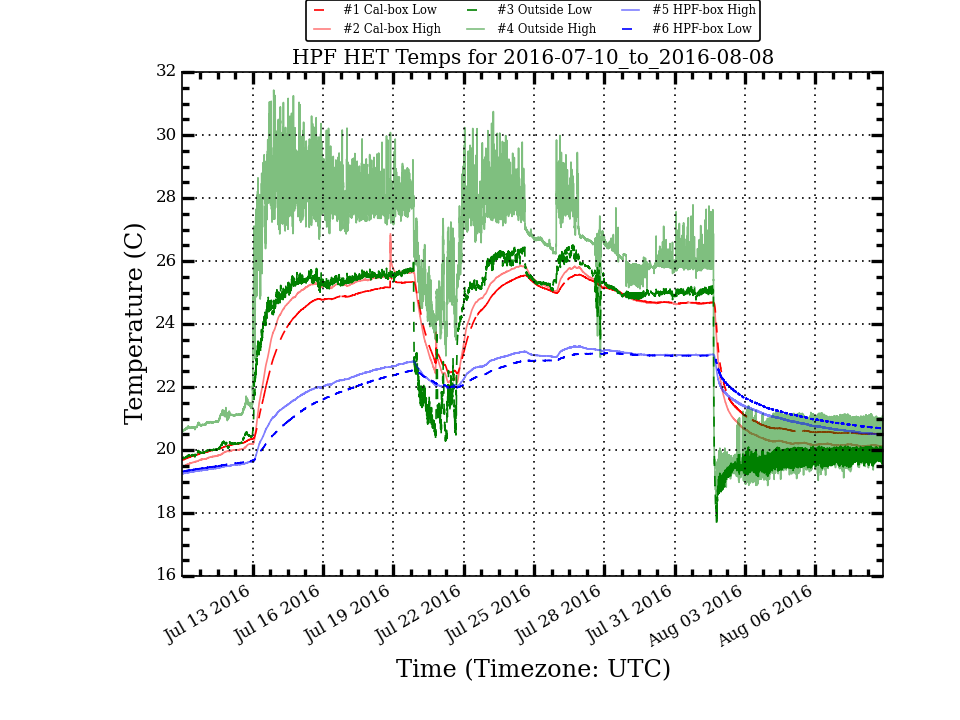
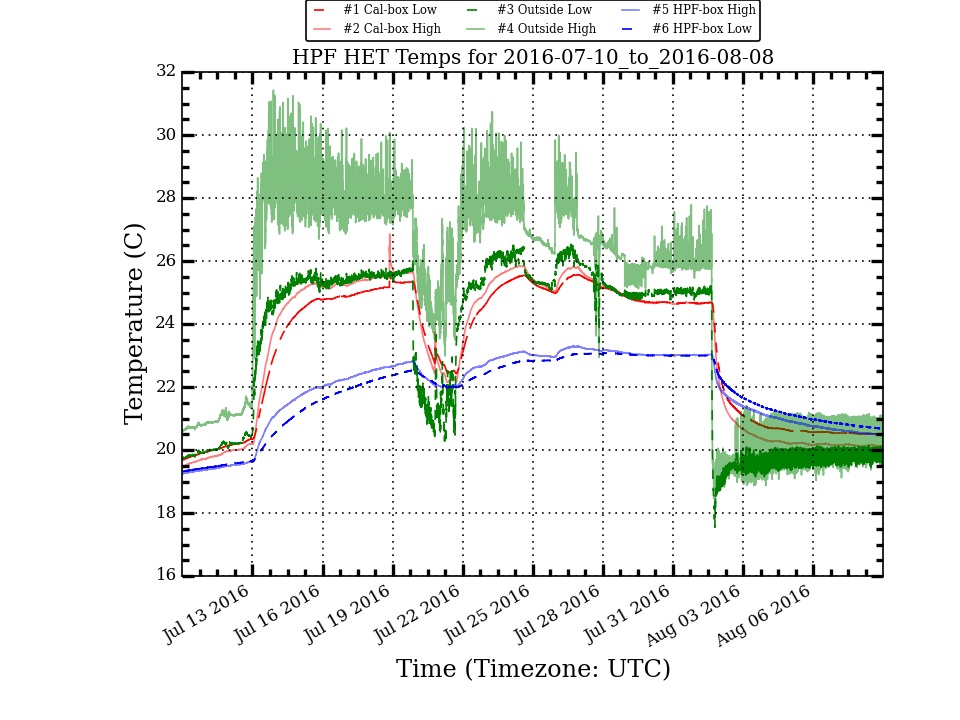
Update HPF Temp Plots

diff --git a/research/hpf_temps/plots/LakeShoreLogTotal_week_stats.html b/research/hpf_temps/plots/LakeShoreLogTotal_week_stats.html
@@ -10,56 +10,56 @@
  </TR>
  <TR>
   <TD>Cal_Low</TD>
-  <TD>20.763</TD>
-  <TD>0.372</TD>
-  <TD>20.608</TD>
+  <TD>20.759</TD>
+  <TD>0.370</TD>
+  <TD>20.607</TD>
   <TD>22.460</TD>
-  <TD>20.490</TD>
-  <TD>1.970</TD>
+  <TD>20.489</TD>
+  <TD>1.971</TD>
  </TR>
  <TR>
   <TD>Cal_High</TD>
-  <TD>20.360</TD>
-  <TD>0.356</TD>
-  <TD>20.209</TD>
+  <TD>20.357</TD>
+  <TD>0.355</TD>
+  <TD>20.207</TD>
   <TD>22.039</TD>
   <TD>20.103</TD>
   <TD>1.936</TD>
  </TR>
  <TR>
   <TD>Out_Low</TD>
-  <TD>19.706</TD>
+  <TD>19.709</TD>
   <TD>0.249</TD>
-  <TD>19.742</TD>
+  <TD>19.745</TD>
   <TD>20.138</TD>
   <TD>18.720</TD>
   <TD>1.418</TD>
  </TR>
  <TR>
   <TD>Out_High</TD>
-  <TD>20.226</TD>
-  <TD>0.589</TD>
-  <TD>20.311</TD>
+  <TD>20.229</TD>
+  <TD>0.587</TD>
+  <TD>20.315</TD>
   <TD>21.404</TD>
   <TD>18.822</TD>
   <TD>2.582</TD>
  </TR>
  <TR>
   <TD>HPF_High</TD>
-  <TD>20.936</TD>
-  <TD>0.371</TD>
-  <TD>20.841</TD>
+  <TD>20.929</TD>
+  <TD>0.372</TD>
+  <TD>20.837</TD>
   <TD>21.974</TD>
-  <TD>20.471</TD>
-  <TD>1.503</TD>
+  <TD>20.466</TD>
+  <TD>1.508</TD>
  </TR>
  <TR>
   <TD>HPF_Low</TD>
-  <TD>21.165</TD>
-  <TD>0.406</TD>
-  <TD>21.054</TD>
+  <TD>21.158</TD>
+  <TD>0.407</TD>
+  <TD>21.048</TD>
   <TD>22.324</TD>
-  <TD>20.676</TD>
-  <TD>1.648</TD>
+  <TD>20.670</TD>
+  <TD>1.654</TD>
  </TR>
 </TABLE>

diff --git a/research/hpf_temps/plots/LakeShoreLogTotal_month_stats.html b/research/hpf_temps/plots/LakeShoreLogTotal_month_stats.html
@@ -10,54 +10,54 @@
  </TR>
  <TR>
   <TD>Cal_Low</TD>
-  <TD>23.212</TD>
-  <TD>2.065</TD>
-  <TD>24.468</TD>
+  <TD>23.203</TD>
+  <TD>2.067</TD>
+  <TD>24.456</TD>
   <TD>25.643</TD>
   <TD>19.677</TD>
   <TD>5.966</TD>
  </TR>
  <TR>
   <TD>Cal_High</TD>
-  <TD>23.240</TD>
-  <TD>2.316</TD>
-  <TD>24.659</TD>
+  <TD>23.230</TD>
+  <TD>2.319</TD>
+  <TD>24.658</TD>
   <TD>26.856</TD>
   <TD>19.457</TD>
   <TD>7.399</TD>
  </TR>
  <TR>
   <TD>Out_Low</TD>
-  <TD>23.177</TD>
-  <TD>2.657</TD>
-  <TD>24.944</TD>
+  <TD>23.166</TD>
+  <TD>2.659</TD>
+  <TD>24.941</TD>
   <TD>26.532</TD>
   <TD>17.548</TD>
   <TD>8.984</TD>
  </TR>
  <TR>
   <TD>Out_High</TD>
-  <TD>24.808</TD>
-  <TD>3.356</TD>
-  <TD>26.001</TD>
+  <TD>24.794</TD>
+  <TD>3.360</TD>
+  <TD>25.991</TD>
   <TD>31.424</TD>
   <TD>18.327</TD>
   <TD>13.097</TD>
  </TR>
  <TR>
   <TD>HPF_High</TD>
-  <TD>21.864</TD>
-  <TD>1.206</TD>
-  <TD>22.185</TD>
+  <TD>21.859</TD>
+  <TD>1.207</TD>
+  <TD>22.178</TD>
   <TD>23.295</TD>
   <TD>19.245</TD>
   <TD>4.050</TD>
  </TR>
  <TR>
   <TD>HPF_Low</TD>
-  <TD>21.782</TD>
+  <TD>21.779</TD>
   <TD>1.126</TD>
-  <TD>22.052</TD>
+  <TD>22.051</TD>
   <TD>23.075</TD>
   <TD>19.312</TD>
   <TD>3.763</TD>
